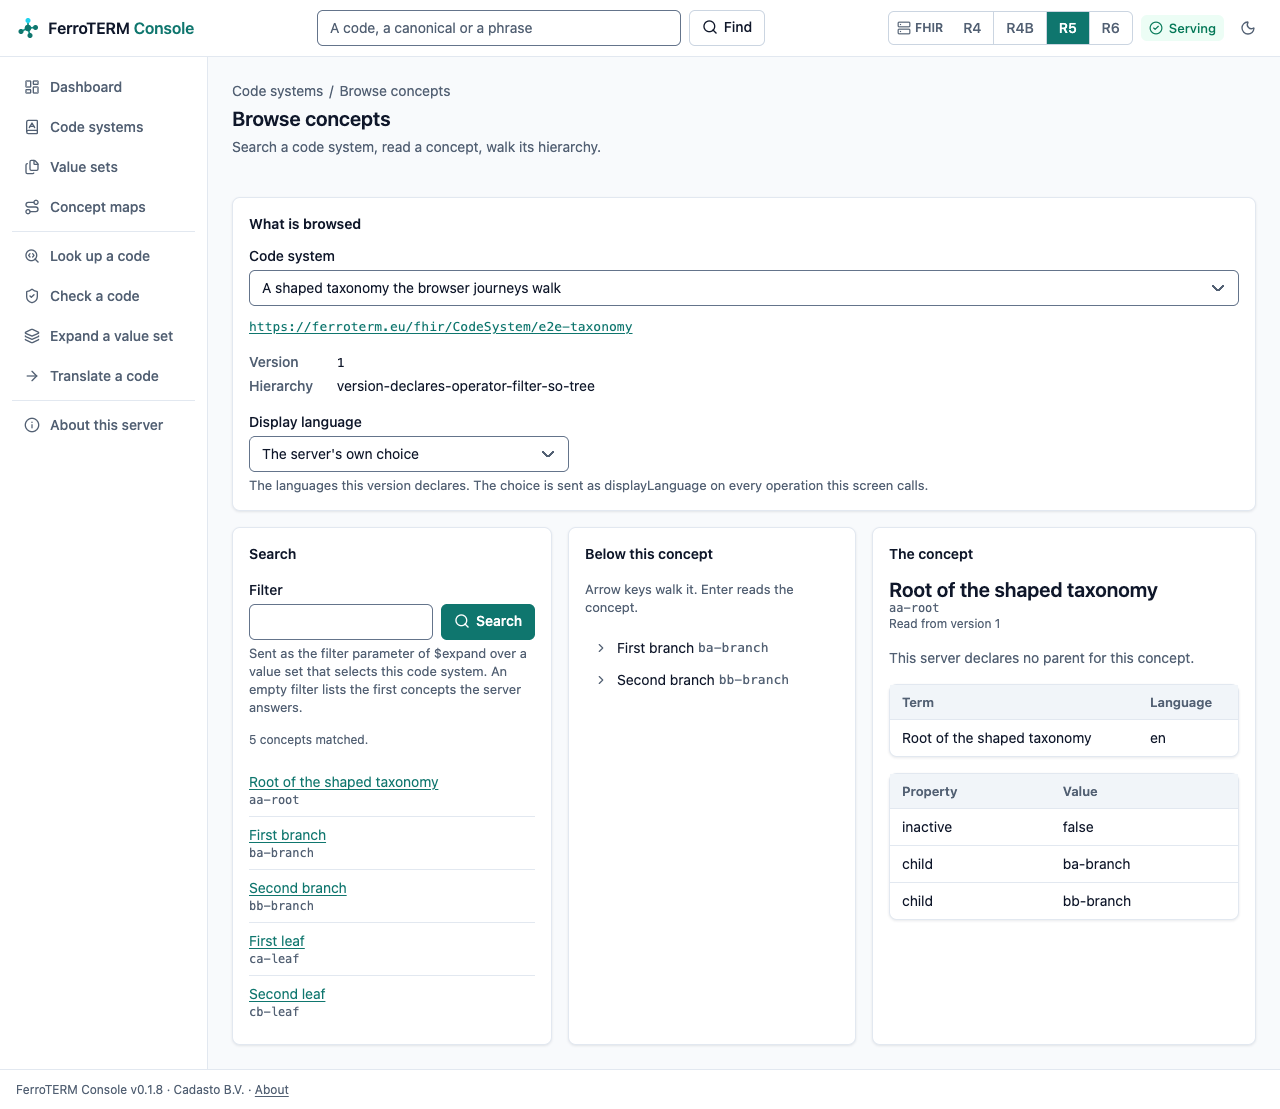
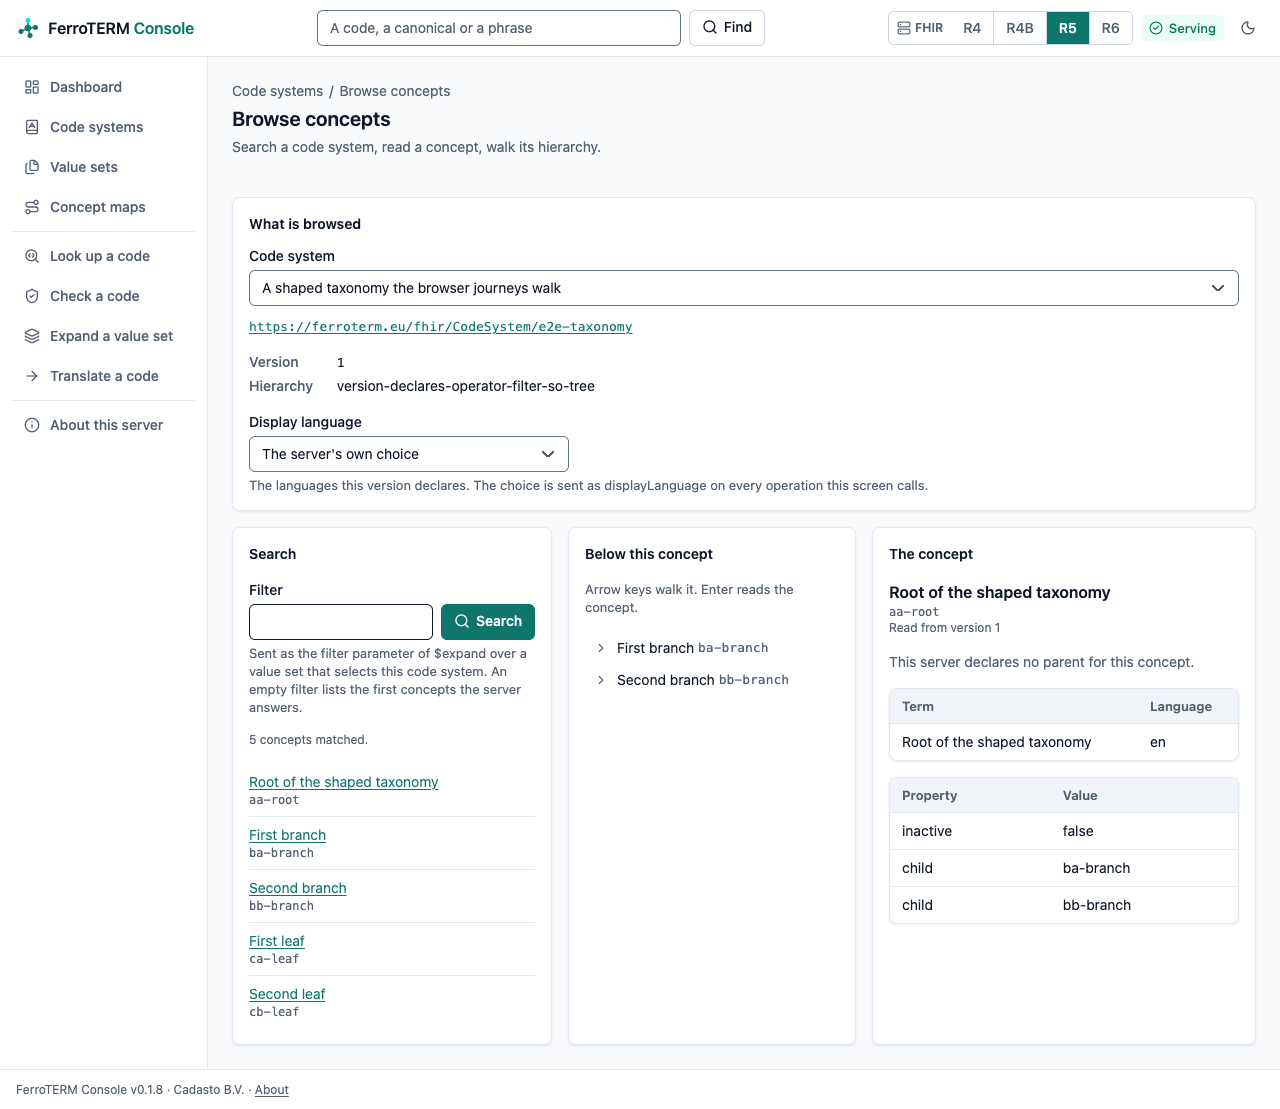
refactor(viewer): take ferrohealth-ui 0.2.2 and drop the Tailwind CLI
The hierarchy row takes FerroUI's depth classes, so the console builds no
stylesheet of its own: style/tailwind.css, tailwind-input-file, the Tailwind
pin, download and check, and LEPTOS_TAILWIND_VERSION are gone, and
viewer-tokens.sh admits FerroUI classes alone. With 0.2.2 a fieldset keeps
its card spacing and a list its markup, so the composer's identity fieldset
loses its wrapper and the Find screen's offers are a list again. The book's
console screenshots are retaken.

Changed region(s): [[0.6875, 0.5212, 0.9375, 0.6745], [0.8125, 0.7051, 0.875, 0.8278], [0.6875, 0.7051, 0.75, 0.8278]]

diff --git a/app/ferroterm-viewer/src/app.rs b/app/ferroterm-viewer/src/app.rs
@@ -19,7 +19,7 @@
 
 use ferrohealth_ui::i18n::{Locale, provide_locale};
 use leptos::prelude::*;
-use leptos_meta::{Stylesheet, Title, provide_meta_context};
+use leptos_meta::{Title, provide_meta_context};
 use leptos_router::components::Router;
 use serde::{Deserialize, Serialize};
 
@@ -28,9 +28,6 @@ use crate::components::shell::{Console, PRODUCT, console_shell};
 use crate::fhir::FhirClient;
 use crate::runs::RunList;
 use crate::settings::Settings;
-
-/// The path of the stylesheet cargo-leptos writes into the site bundle.
-pub const STYLESHEET: &str = "/pkg/ferroterm-viewer.css";
 
 /// What the server tells the page about the request it renders: carried to
 /// the browser half serialized, so both halves draw the same page (the Leptos
@@ -133,7 +130,6 @@ pub fn App() -> impl IntoView {
     };
     provide_context(console);
     view! {
-        <Stylesheet id="leptos" href=STYLESHEET />
         <Title formatter=|text: String| format!("{text} · {PRODUCT}") />
         <Router>{console_shell(console)}</Router>
     }

diff --git a/app/ferroterm-viewer/src/pages/expand.rs b/app/ferroterm-viewer/src/pages/expand.rs
@@ -56,11 +56,10 @@ use crate::routes::base_url;
 use crate::runs::Run;
 use crate::settings::Settings;
 use crate::settings::parse_page_size;
-use crate::styles;
 use ferrohealth_ui::table::model::filled_columns;
 use ferrohealth_ui::table::model::{Noun, OpenWindow, Paging, Window};
 use ferrohealth_ui::table::view::{
-    Body, Column, DataTable, Listing, Step, data_table, open_pager, step_label,
+    Body, Column, DataTable, Listing, Step, data_table, depth, open_pager, step_label,
 };
 use ferrohealth_ui::tone::Tone;
 use ferrohealth_ui::view::button::Variant;
@@ -862,7 +861,7 @@ fn concept_row(row: &ConceptRow, flagged: bool) -> AnyView {
     let flags = (!flags.is_empty()).then(|| badge(Tone::Neutral, &flags));
     view! {
         <tr>
-            <td class=format!("fui-mono {}", styles::depth(row.depth))>
+            <td class=format!("fui-mono {}", depth(row.depth))>
                 <span class="fui-sr-only">{nesting}</span>
                 {row.code.clone()}
             </td>

diff --git a/app/ferroterm-viewer/src/pages/value_set_composer.rs b/app/ferroterm-viewer/src/pages/value_set_composer.rs
@@ -788,15 +788,13 @@ fn identity_section(editing: Editing, editable: Memo<bool>) -> AnyView {
             <h2 id="compose-identity-heading" class="fui-card-title">
                 {tr(Msg::TheValueSet)}
             </h2>
-            <div>
-                <fieldset
-                    class="fui-fieldset"
-                    aria-labelledby="compose-identity-heading"
-                    disabled=move || !editable.get()
-                >
-                    <div class="fui-columns">{fields}</div>
-                </fieldset>
-            </div>
+            <fieldset
+                class="fui-fieldset"
+                aria-labelledby="compose-identity-heading"
+                disabled=move || !editable.get()
+            >
+                <div class="fui-columns">{fields}</div>
+            </fieldset>
         </section>
     }
     .into_any()

diff --git a/app/ferroterm-viewer/src/styles.rs b/app/ferroterm-viewer/src/styles.rs
@@ -80,21 +80,3 @@ pub(crate) const ABSENT: &str = "fui-muted";
 
 /// The character that mark draws.
 pub(crate) const ABSENT_MARK: &str = "\u{2014}";
-
-/// The indentation of a row at each depth of a hierarchy, written as classes
-/// so no row carries a `style` attribute the policy would refuse.
-// TODO(#730): FerroUI's depth classes (FerroUI issue 37) replace these.
-const DEPTHS: [&str; 9] = [
-    "depth-0", "depth-1", "depth-2", "depth-3", "depth-4", "depth-5", "depth-6", "depth-7",
-    "depth-8",
-];
-
-/// The indentation class of a row at `depth`, deeper rows at the last step.
-pub(crate) fn depth(depth: u32) -> &'static str {
-    let index = usize::try_from(depth).unwrap_or(usize::MAX);
-    DEPTHS
-        .get(index)
-        .or(DEPTHS.last())
-        .copied()
-        .unwrap_or_default()
-}

diff --git a/e2e/tests/it/accessibility.rs b/e2e/tests/it/accessibility.rs
@@ -178,7 +178,7 @@ const WALK_STOPS: &str = "return (window.walkStops || []).join('\\n');";
 /// element shows what is behind it. Large text is 18.66px bold or 24px, which
 /// is the threshold the success criterion names.
 const CONTRAST_FAILURES: &str = r#"
-// Tailwind 4 writes its palette in oklch, and a browser computes `color` to
+// A stylesheet may write a colour in oklch, and a browser computes `color` to
 // the space the author wrote (https://www.w3.org/TR/css-color-4/#resolving-color-values),
 // so a reader of getComputedStyle sees oklch and never rgb. Both are converted
 // to linear-light sRGB here, which is what the luminance formula wants anyway.

diff --git a/app/ferroterm-viewer/src/pages/find.rs b/app/ferroterm-viewer/src/pages/find.rs
@@ -158,13 +158,8 @@ fn offers_view(found: &[Offer]) -> AnyView {
                 offer.label.clone(),
                 view! { <p class="fui-muted">{offer.detail.clone()}</p> },
             );
-            view! { <div role="listitem">{card}</div> }.into_any()
+            view! { <li>{card}</li> }.into_any()
         })
         .collect();
-    view! {
-        <div class="fui-grid" role="list">
-            {rows}
-        </div>
-    }
-    .into_any()
+    view! { <ul class="fui-grid">{rows}</ul> }.into_any()
 }

diff --git a/e2e/tests/it/viewer.rs b/e2e/tests/it/viewer.rs
@@ -47,7 +47,7 @@ const COMMAND_BAR: &str = "#command-bar";
 const COMMAND_SUBMIT: &str = "form[role='search'] button[type='submit']";
 
 /// One offer the find screen made, as the link that takes it.
-const OFFER: &str = "section[aria-labelledby='find-offers-heading'] [role='listitem'] a";
+const OFFER: &str = "section[aria-labelledby='find-offers-heading'] li a";
 
 /// The density control that pane carries.
 const DENSITY_CONTROL: &str = "#viewer-density";

diff --git a/.claude/skills/ui-gates/SKILL.md b/.claude/skills/ui-gates/SKILL.md
@@ -22,8 +22,8 @@ Stop and report on the first hard failure; run the cheap gates first.
 - Tooling presence, reported rather than silently installed:
   `rustup target list --installed | grep wasm32`, `cargo leptos --version`
   (0.3.11), `wasm-bindgen --version` (the `=` pin of the root manifest),
-  `leptosfmt --version`. `scripts/release/viewer-tools.sh` fetches the
-  Tailwind CLI and `wasm-opt` by SHA-256. Ask before installing anything else.
+  `leptosfmt --version`. `scripts/release/viewer-tools.sh` fetches
+  `wasm-opt` by SHA-256. Ask before installing anything else.
 - Shared `./target`, no ad-hoc `RUSTFLAGS`, no flag variation between runs.
 
 ## The battery, in order
@@ -58,7 +58,7 @@ Stage 5 drives Chrome for Testing and its chromedriver at the release
 `FERROTERM_UI_E2E_CHROMEDRIVER` name them; without either, and with no
 chromedriver on PATH, the script fetches that release into
 `target/journey-tools` (`scripts/release/journey-tools.sh`) and the pinned
-`tailwindcss` and `wasm-opt` into `target/viewer-tools`. It needs `jq`,
+`wasm-opt` into `target/viewer-tools`. It needs `jq`,
 `unzip`, `cargo-nextest` and `cargo-leptos`. If it still cannot run, report
 `SKIPPED(reason)` and say that CI's `ui-e2e` job runs it and gates the merge;
 a skip is not a pass.

diff --git a/docs/viewer.md b/docs/viewer.md
@@ -55,8 +55,7 @@ shape, and one operator experience. That is the reason for the shape:
 | Halves | chosen by compilation target, never by a Cargo feature: the host half links `leptos` with `ssr`, the `wasm32-unknown-unknown` half with `hydrate` |
 | Rendering | every route `SsrMode::Async`: the server waits for the reads a screen exists to show, so no content waits on a script |
 | Components | `ferrohealth-ui` (crates.io), its stylesheet served at `/ferrohealth-ui.css` and the FerroTERM brand at `/theme.css` |
-| Layout utilities | Tailwind 4 over `app/ferroterm-viewer/style/tailwind.css`, theme and utilities only, no preflight |
-| Build | cargo-leptos (`scripts/release/viewer-site.sh`), the Tailwind CLI and `wasm-opt` pinned and checked by SHA-256 (`scripts/release/viewer-tools.sh`); no Node |
+| Build | cargo-leptos (`scripts/release/viewer-site.sh`), `wasm-opt` pinned and checked by SHA-256 (`scripts/release/viewer-tools.sh`); no Node |
 | Image | `docker/viewer/Dockerfile`, distroless static, the binary and the site bundle the release lane stages |
 
 ## 3. Screens

diff --git a/.claude/rules/leptos-ui.md b/.claude/rules/leptos-ui.md
@@ -83,11 +83,9 @@ The oracle for a Leptos question is the official Leptos book
 
 - The components' stylesheet is `ferrohealth_ui::style::STYLESHEET`, served at
   `/ferrohealth-ui.css`; the brand is `ferrohealth_ui::style::Brand::Term`'s
-  theme (FerroTERM teal), served at `/theme.css`; the
-  console's own utilities are Tailwind 4 over `style/tailwind.css`, which
-  imports Tailwind's theme and utilities and **not its preflight** (it would
-  reset what the components' stylesheet draws), and maps the FerroUI roles,
-  steps and spacing in an `@theme inline reference` block.
+  theme (FerroTERM teal), served at `/theme.css`. The console builds no
+  stylesheet of its own: every class a screen writes is a ferrohealth-ui
+  class, and `scripts/checks/viewer-tokens.sh` fails any other.
 - `scripts/checks/viewer-tokens.sh` refuses a palette entry, a per-element
   `dark:` variant, a raw type size and a spacing value off the four steps.
 - A screen draws with FerroUI components. What FerroUI does not have yet is

diff --git a/docs/VERSIONS.md b/docs/VERSIONS.md
@@ -101,8 +101,7 @@ among them; the pins below are the tools.
 | Compilation target | `wasm32-unknown-unknown` (`rustup target add wasm32-unknown-unknown`) |
 | cargo-leptos | 0.3.11, installed by `ci.yml` and `release-viewer.yml` |
 | `wasm-bindgen` CLI | 0.2.129, the version of the `wasm-bindgen` crate the root `Cargo.toml` pins |
-| Tailwind CSS standalone CLI | 4.3.3, downloaded and checked against its SHA-256 by `scripts/release/viewer-tools.sh`, so there is no Node and no npm |
-| Binaryen `wasm-opt` | version_133, downloaded and checked the same way |
+| Binaryen `wasm-opt` | version_133, downloaded and checked against its SHA-256 by `scripts/release/viewer-tools.sh`, so there is no Node and no npm |
 | `leptosfmt` | 0.1.33, the `view!` macro formatter |
 | Chrome for Testing | 155.0.8059.79 with its chromedriver, installed by `browser-actions/setup-chrome` in the `ui-e2e` job of `ci.yml`, and on a developer machine by `scripts/release/journey-tools.sh`, which checks each zip against its SHA-256 |
 

diff --git a/docs/ci-cd.md b/docs/ci-cd.md
@@ -77,8 +77,8 @@ artifact digest and signed by the pinnable workflow identity, verifiable with
 `app/ferroterm-viewer` is the FerroTERM Console, its own binary and image
 (`ghcr.io/ferrohealth/ferroterm-viewer`), rendered on the server and hydrated
 in the browser. cargo-leptos builds the WebAssembly half and the site bundle;
-the Tailwind standalone CLI and Binaryen's `wasm-opt` are downloaded and
-checked against their SHA-256 by `scripts/release/viewer-tools.sh`, so there
+Binaryen's `wasm-opt` is downloaded and checked against its SHA-256 by
+`scripts/release/viewer-tools.sh`, so there
 is no Node in any lane. `scripts/checks/versions.sh` fails when a tool pin of
 `docs/VERSIONS.md` and a workflow or script drift apart.
 
